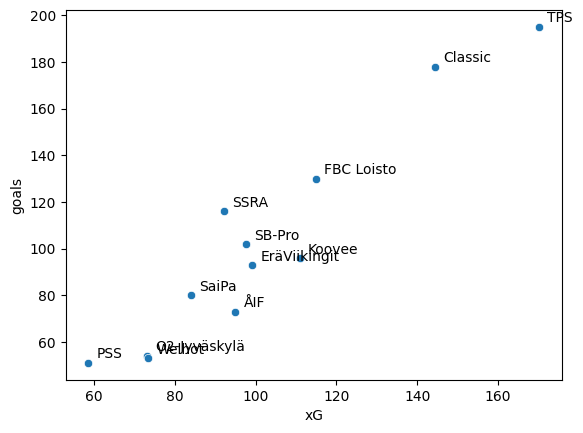
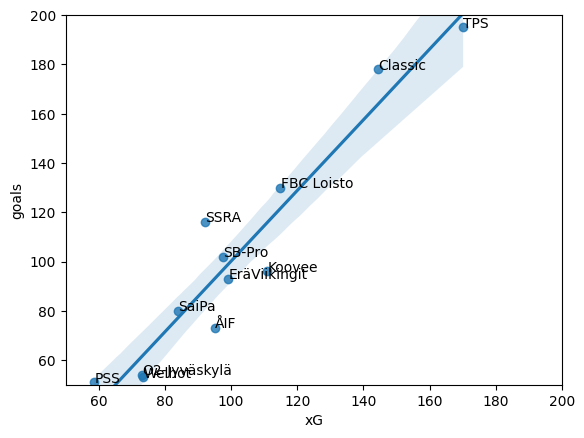
lisää xG

Changed region(s): [[0.0, 0.0, 0.988, 0.9908]]

diff --git a/_posts/2025-3-10-floorball-xG.md b/_posts/2025-3-10-floorball-xG.md
@@ -46,6 +46,13 @@ Maalidottamalla mitattuna heikoin joukkue miesten F-Liigassa on LASB. Sen peli e
 
 Oilers on onnistunut tekemään enemmän maaleja kuin odottaman xG verran. Tämän lisäksi Oilersin puolustus on ollut niin tiivis, että maaleja sitä vastaan on tehty jopa vähemmän sitä vastaantehtyjen maaliodottaman XGA:n verran.
 
+![Maalien jakauma](/images/floorball/xG/miehet_xGA_xG.png)<br>
+_Kuvio 1. xGA/maalit vastaan vs xG/maalit joukkueille miesten F-Liigassa. Oranssit pisteet toteuma, siniset xG._
+
+![Maalien jakauma](/images/floorball/xG/miehet_goals_xG.png)<br>
+_Kuvio 2. xG vastaa melko hyvin tehtyjen maalien määrää eri joukkueilla._
+
+
 Heikoin XGA on Jymyllä ja LASBilla. Molemmille on vieläpä tehty enemmän maaleja kuin sarjan heikoin XGA antaa odottaa. EräViikingit on tehnyt vähemmän maaleja kuin xG antaa odottaa, mutta puolustanut tiiviisti, jolloin sitä vastaa on tehty vähemmän maaleja kuin xGA antaa odottaa.
 
 2.2 Naiset
@@ -64,10 +71,10 @@ Taulukosta 2 näkyy, että TPS sekä tekee tehokkaasti maaleja että myös puolu
 Vastaavasti Erä-Viikingit tekee maaleja odotettuun tahtiin, mutta puolustaa hyvin. Sitä vastaan on tehty vähän maaleja ja myös xGA sitä vastaan on matala. Tämä näkyy myös kuviosta 3, joka osoittaa, että korkea xG yhdistyy matalaan xGA:han. Tämän voi myös sanoa, että hyvin puolustavat joukkueet ovat sekä antaneet vain vähän maalintekotilanteita vastustajalle että päässeet itse paljon hyviin maalintekotilanteita. 
 
 ![Maalien jakauma](/images/floorball/xG/naiset_xGA_xG.png)<br>
-_Taulukko 3. xG joukkueille naisten F-Liigassa._
+_Kuvio 3. xGA/maalit vastaan vs xG/maalit joukkueille naisten F-Liigassa. Oranssit pisteet toteuma, siniset xG._
 
 ![Maalien jakauma](/images/floorball/xG/naiset_goals_xG.png)<br>
-_Taulukko 4. xG vastaa melko hyvin tehtyjen maalien määrää eri joukkueilla._
+_Kuvio 4. xG vastaa melko hyvin tehtyjen maalien määrää eri joukkueilla._
 
 
 3 Pelaajien xG
@@ -79,7 +86,7 @@ _Taulukko 4. xG vastaa melko hyvin tehtyjen maalien määrää eri joukkueilla._
 Justus Kainulainen on kuuluisa hurjasta vedostaan. Hän onkin xG-erolla:llä mitattuna toiseksi paras miesten F-Liigassa. Paras on kuitenkin Tiitus Salokangas, joka on onnistunut taikomaan yli kaksinkertaisen määrän maaleja xG:hen verrattuna. Hän on vastannut yksinään lähes puolesta Classicin xG-erosta.
 
 ![Maalien jakauma](/images/floorball/xG/xG_players_men.png)<br>
-_Taulukko 5. xG pelaajille miesten F-Liigassa._
+_Taulukko 3. xG pelaajille miesten F-Liigassa._
 
 Kaikkiaan 281 pelaajaa on tehnyt F-Liigassa maaleja. Pelaajista 110:llä on positiivinen xG. Yli 10 maalia tehneitä pelaajia on 70 ja heistä 46:lla on positiivinen xG.
 Toisin sanoen, paljon maaleja tehneillä on pääsääntöisesti keskimääräistä korkeampi xG.
@@ -90,7 +97,7 @@ Toisin sanoen, paljon maaleja tehneillä on pääsääntöisesti keskimääräis
 Naisissa Miisa Turunen on omilla lukemillaan: kun xG on 17, on hän tehnyt maaleja 29. Tästä huolimatta SaiPan xG-ero on negatiivinen.
 
 ![Maalien jakauma](/images/floorball/xG/xG_players_women.png)<br>
-_Taulukko 6. xG pelaajille naisten F-Liigassa._
+_Taulukko 4. xG pelaajille naisten F-Liigassa._
 
 Kaikkiaan 275 pelaajaa on tehnyt F-Liigassa maaleja. Pelaajista 101:llä on positiivinen xG. Jos rajoitutaan yli 10 maalia tehneisiin, on pelaajia 33 kappaletta, ja heistä 31:llä on positiivinen xG.
 
